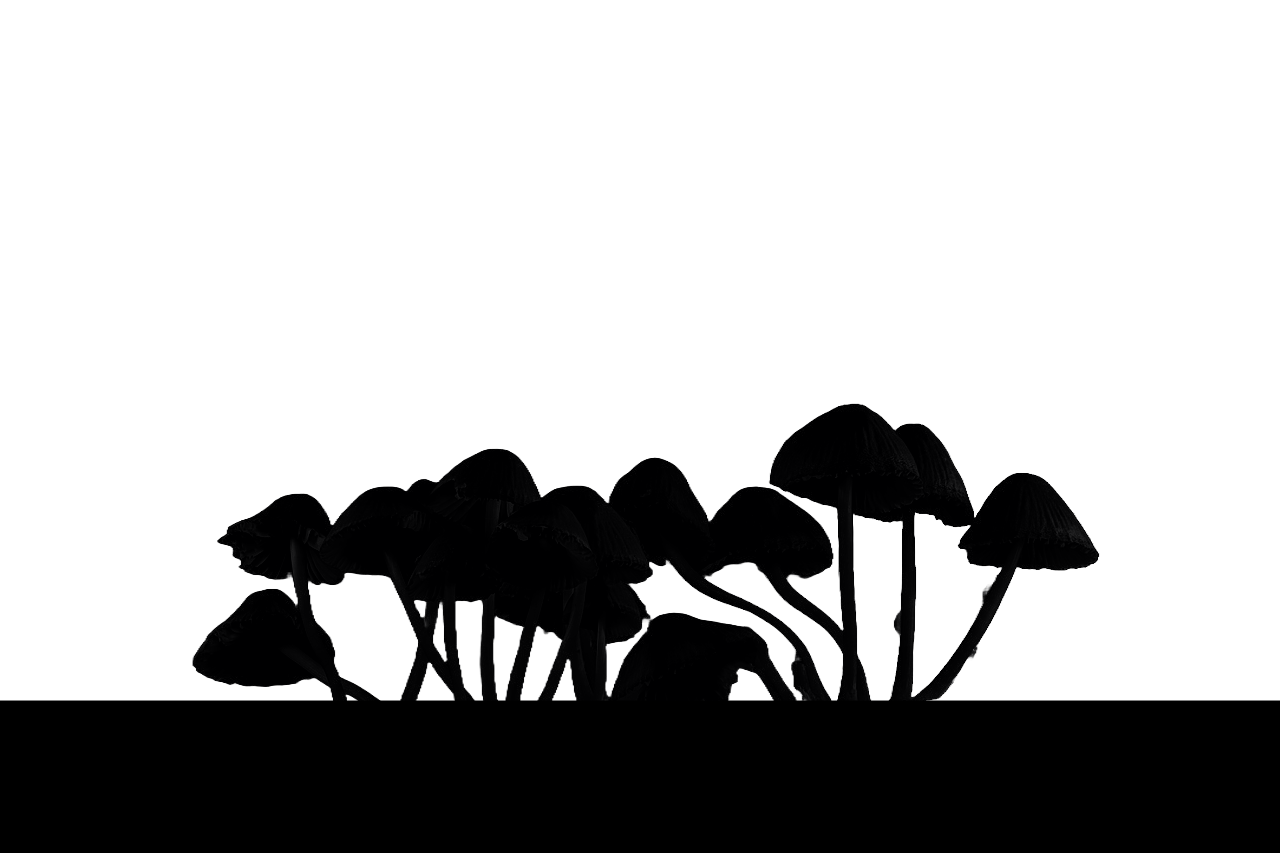
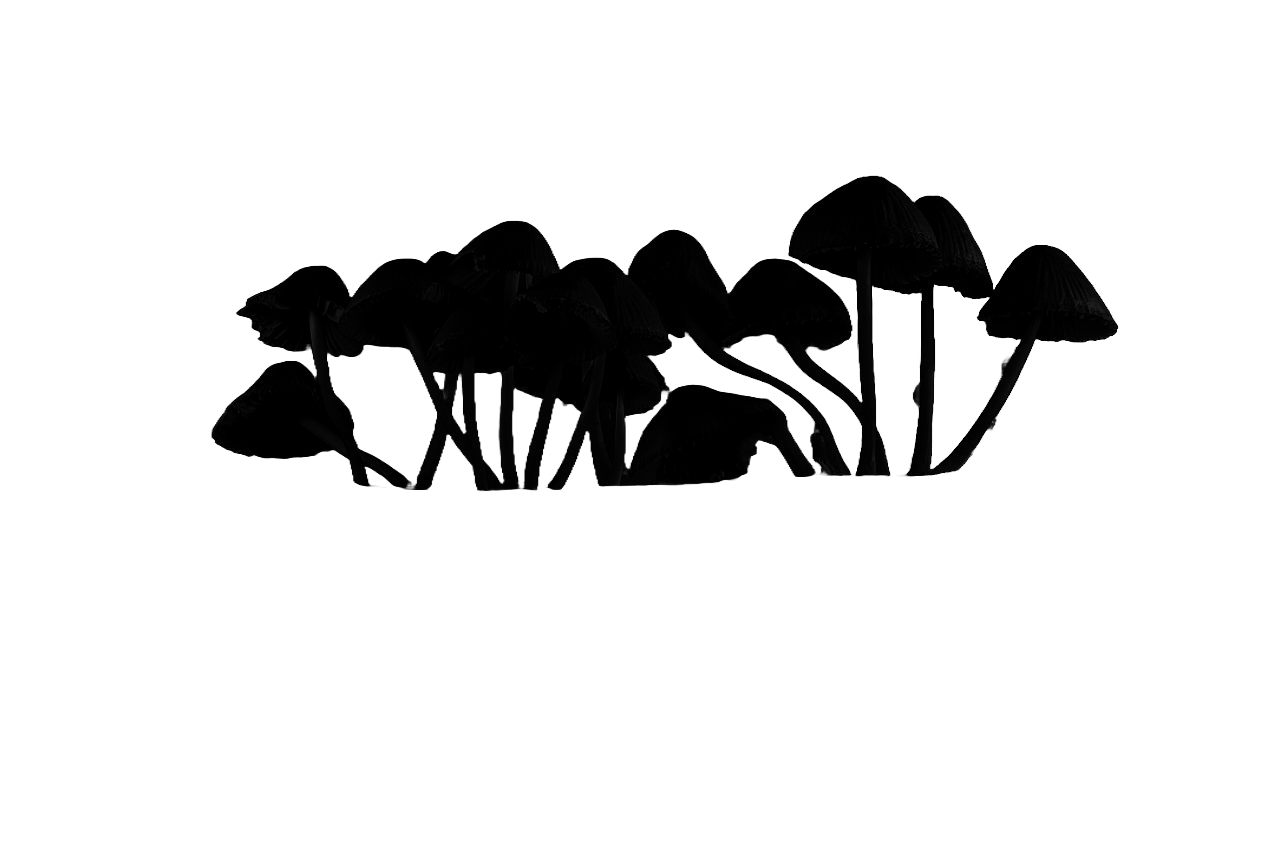
game-update
Fjernet home-section og lagt alt av score, basket osv in under #basket

diff --git a/game.css b/game.css
@@ -5,8 +5,6 @@
 
     --100vh: 100vh;
     --50vh: 50vh;
-
-    --green-underline: #A3C1AD;
 }
 
 /* ------------- mini sopp-spill ----------- */
@@ -22,6 +20,8 @@
 
     width: 100%;
     height: auto;
+
+    padding:0;
 }
 
 
@@ -30,17 +30,9 @@
     height: auto;
 
     border-radius: 5px; 
-    text-shadow: 2px 2px 4px rgba(0, 0, 0, 0.5);
     background-color: black; 
 
-}
-
-#mushroom-path-section h2 {
-    font-size: 50px;
-    font-weight: 700;
-    letter-spacing: 2px;
-    color: white;
-    padding: 1rem;
+    padding-bottom: 5rem;
 }
 
 .mushroom-path-text {
@@ -52,28 +44,25 @@
 }
 
 
-
 /* ------------- Soppteller ----------- */
 
 .counter-box {
     position: sticky;
     top: 0;
-    width: 200px;
+    margin: 0 auto;
+    width: fit-content;
+    padding: 1rem;
+    border: 2px solid white;
+    border-radius: 5px;
 
     font-family: 'Press Start 2P', cursive;
-    background-color: #1a1a2e;
-    border: 10px solid var(--green-underline);
-    border-radius: 10px; 
-    box-shadow: 0 4px 8px rgba(0, 0, 0, 0.3);
-   
-/* margin: 0 auto; */
+    background-color: black;
 }
 
 .counter-box p {
     font-size: 20px;
     margin: 0;
     color: white; 
-    padding: 0.5rem;
 }
 
 .counter-box span {
@@ -82,8 +71,6 @@
     margin: 0;
     font-size: 40px;
     font-weight: bold;
-    border-radius: 5px;
-    box-shadow: inset 0 0 10px rgba(0, 0, 0, 0.5);
 }
 
 /* ------------- selve spilllayouten ----------- */
@@ -91,6 +78,10 @@
 #mushroom-game {
     width: 100%;
     padding-top: 10rem;
+    display: flex;
+    flex-direction: column;
+    align-items: center;
+    position: relative;
 }
 
 #mushroom-path {
@@ -148,74 +139,61 @@
 }
 
 
-/* ------------  HOME  ----------- */
-
-#home {
-    background-color: #000;
-
-    display: flex;
-    flex-direction: column;
-    align-items: center;
-}
-
-.home-section {
-    width: 100%;
-    height: var(--50vh);
-
-    border-radius: 5px; 
-    text-shadow: 2px 2px 4px rgba(0, 0, 0, 0.5);
-    background-color: black; 
-
-    padding: 2rem;
-}
-
-.home-section p {
-    font-size: 30px;
-    line-height: 3rem;
-    color: white;
-    padding: 1rem;
-}
-
 /* ------------  BASKET  ----------- */
 
 #basket-section {
-    display: flex;
-    flex-direction: column;
-    justify-content: center;
-
     width: 100%;
     height: auto;
+
+    background-color: #000;
+
+    border: red 3px solid;
 }
 
 #basket {
-    width: 100%;
+    width: var(--responsive-width);
     height: auto;
 
     display: flex;
-    flex-direction: column;
     justify-content: center;
-    align-items: center;
-
-    border: red 3px solid;
-
 }
 
 #basket-text {
     font-size: 25px;
-    font-weight: bold; 
-    line-height: 3rem;
-    letter-spacing: 1px;
-    text-align: center;
-    text-shadow: 2px 2px 4px rgba(0, 0, 0, 0.5);
-    background-color: rgba(0, 0, 0, 0.5); 
     color: white;
+    letter-spacing: 1px;
+    line-height: 3rem;
+    text-align: left;
+    text-shadow: 2px 2px 4px rgba(0, 0, 0, 0.8);
+    background-color: rgba(0, 0, 0, 0.7);
     padding: 2rem;
-    margin: 2rem;
+    width: 50%;
 }
 
+#basket-text span {
+    font-weight: bold;
+    color: #ffcc00;
+}
+
+/*
+.basket-outer {
+    width: 100%;
+    height: auto;
+
+    border: yellow 3px solid;
+}
+ 
+#basket-fill {
+    width: 70%;
+    height: auto;
+
+    border: yellow 3px green;
+} */
 
 #basket-img {
     cursor: pointer;
+
+    border: yellow 3px green;
 }
 
 #basket-img:hover {
@@ -240,14 +218,4 @@
     100% {
         transform: rotate(0deg);
     }
-}
-
-.basket-outer {
-    width: 100%;
-    height: auto;
-}
-
-#basket-fill {
-    width: 70%;
-    height: auto;
 }

diff --git a/index.html b/index.html
@@ -43,18 +43,16 @@
             <p class="mushroom-path-text">En mulig årsak til økningen i soppforgiftninger er at flere spiser sopp
                 hjemme, noe som øker risikoen for feilidentifikasjon og forgiftning. En annen årsak kan være at hvis et
                 hushold plukker en giftig sopp, så vil det være flere som blir forgiftet.
-                Noen forgiftninger skjer fordi folk forveksler giftige sopper med spiselige varianter fra sitt hjemland.
-                For eksempel finnes det en hvit sopp i Asia som er spiselig, som ligner veldig på den norske hvite
-                fluesoppen som er svært giftig.
-
             </p>
-            <p class="mushroom-path-text">Følg stien nedover og klikk på soppen du tror er trygg å spise.
-                Telleren holder oversikt over
-                hvor
-                mange
-                sopp du har plukket.</p>
-            <p class="mushroom-path-text">Når du har plukket den soppen du tror er trygg forlater vi stien og
-                sjekker innholdet i kurven.</p>
+            <p class="mushroom-path-text">Noen forgiftninger skjer fordi folk forveksler giftige sopper med spiselige
+                varianter fra sitt
+                hjemland. For eksempel finnes det en hvit sopp i Asia som er spiselig, som ligner veldig på den norske
+                hvite
+                fluesoppen som er svært giftig. Å velge riktig sopp blir derfor veldig viktig.. </p>
+            <p class="mushroom-path-text">Bli med på sopptur!</p>
+            <p class="mushroom-path-text">Følg stien nedover og sjekk om du klarer å finne den soppen som er spiselig.
+                Når du har plukket den
+                ferdig kontrollerer innholdet i kurven din.</p>
         </div>
 
         <section id="mushroom-game" class="flex-col-jus fade-out-background-strong">
@@ -65,28 +63,21 @@
                 <!-- Her genereres inn sopp fra Js -->
             </div>
         </section>
-        <section class="home-break">
+        <section id="forest-break" class="flex-col-al">
         </section>
     </section>
 
 
-    <section id="home">
-        <div class="home-section flex-col-center-center">
-            <p class="mushroom-path-text">Bra jobba! Tilbake hjemme fra stien kan vi endelig se hvor mange
-                sopp som du har plukket som er
-                giftig
-                og
-                ikke giftig.</p>
+    <section id="basket-section">
+        <div id="basket">
+            <img src="IMG/basket.png" alt="basket" id="basket-img" width="300" height="300">
+            <p id="basket-text" class="flex-col-jus">Bra jobba, du har plukket<span class="counter">0</span> sopp! Klikk
+                på
+                kurven
+                for å finne ut om du har giftig sopp i kurven</p>
         </div>
-        <div id="basket-section" class="fade-out-background-strong">
-            <p id="basket-text"> Du hadde <span class="counter">0</span> med deg hjem fra sopptur</p>
-            <div id="basket">
-                <div class="basket-outer flex-row-center-center">
-                    <img src="IMG/basket.png" alt="basket" id="basket-img" width="300" height="300">
-                    <div id="basket-fill" class="flex-row-wrap-start"></div>
-                </div>
-            </div>
-        </div>
+        <!-- <div id="basket-fill" class="flex-row-wrap-start"></div> -->
+
     </section>
 
     <section id="info-section" class="flex-col-al">

diff --git a/script.js b/script.js
@@ -144,16 +144,16 @@ basket.addEventListener('click', () => {
     } else {
         /* intro.style.display = 'none';
         mushroomPath.style.display = 'none'; */
-
-        basketimg.classList.add('basket-tilt');
-        basketfill.innerHTML = '';
-
-        basketContent.map(item => {
-            const mushroomDiv = document.createElement('div');
-            mushroomDiv.className = 'mushroom';
-            mushroomDiv.innerHTML = item.content;
-            basketfill.appendChild(mushroomDiv);
-        });
+        /* 
+                basketimg.classList.add('basket-tilt');
+                basketfill.innerHTML = '';
+        
+                basketContent.map(item => {
+                    const mushroomDiv = document.createElement('div');
+                    mushroomDiv.className = 'mushroom';
+                    mushroomDiv.innerHTML = item.content;
+                    basketfill.appendChild(mushroomDiv);
+                }); */
 
         mushroomInfo.innerHTML = getMushroomData(basketContent).map(mushroom => {
             return `
@@ -192,9 +192,9 @@ function displayScore() {
     // if else som bestemmer om basket-text skal vise om du kan spise soppen eller ikke
     if (poisonCount > 0) {
         baskettext.innerHTML = `<p>Du har plukket ${poisonCount} giftige sopp og selv om du plukket ${notPoisonCount} gift-fri sopp, må alt kastet fordi de har vært i samme kurv :(</p>
-        Les mer om soppen under!</p>`;
+        Les mer om soppen du har plukket under!</p>`;
     } else {
-        baskettext.innerHTML = `<p>Gratulerer! Du har plukket ${notPoisonCount} gift-fri sopp og kan spise med god samvittighet! Les mer om soppen under</p>`;
+        baskettext.innerHTML = `<p>Gratulerer! Du har plukket ${notPoisonCount} gift-fri sopp og kan spise med god samvittighet! Les mer om soppen du har plukket under under</p>`;
     }
 }
 

diff --git a/style.css b/style.css
@@ -4,8 +4,6 @@
 
     --100vh: 100vh;
     --50vh: 50vh;
-
-    --green-underline: 1px solid #A3C1AD;
 }
 
 * {
@@ -26,6 +24,12 @@ body {
    
 }
 /* ------------ FLEX RULES ----------- */
+
+.flex-row-jus {
+    display: flex;
+    flex-direction: row;
+    justify-content: center;
+}
 
 .flex-col-jus {
     display: flex;
@@ -62,6 +66,13 @@ body {
     display: flex;
     flex-direction: row;
     justify-content: center;
+    align-items: center;
+}
+
+.flex-row-al-space {
+    display: flex;
+    flex-direction: row;
+    justify-content: space-evenly;
     align-items: center;
 }
 
@@ -123,21 +134,6 @@ body {
     margin-bottom: 15rem;
 }
 
-.fade-in-background {
-    background-image: linear-gradient(rgba(0, 0, 0, 0.0), rgba(0, 0, 0, 0.0), rgba(0, 0, 0, 0.5));
-}
-
-.fade-background {
-    background-color: rgba(0, 0, 0, 0.5);
-}
-
-.fade-out-background {
-    background-image: linear-gradient(rgba(0, 0, 0, 0.5), rgba(0, 0, 0, 0.5), rgba(0, 0, 0, 0.0));
-}
-
-.fade-out-background-strong {
-    background-image: linear-gradient(rgba(0, 0, 0, 1.0), rgba(0, 0, 0, 0.1),rgba(0, 0, 0, 0.0), rgba(0, 0, 0, 0.0));
-}
 
 .intro-text-div {
     text-align: center;
